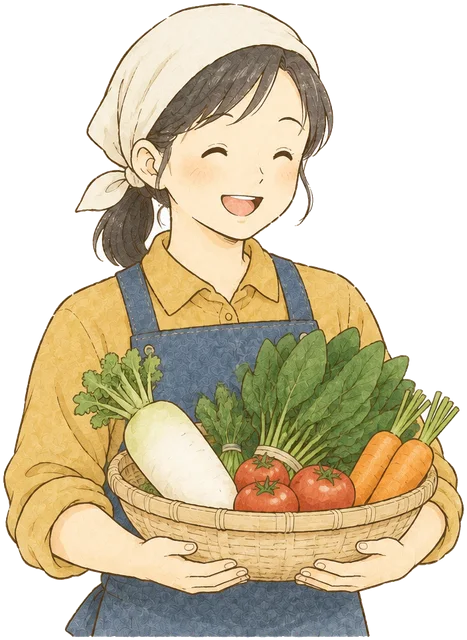
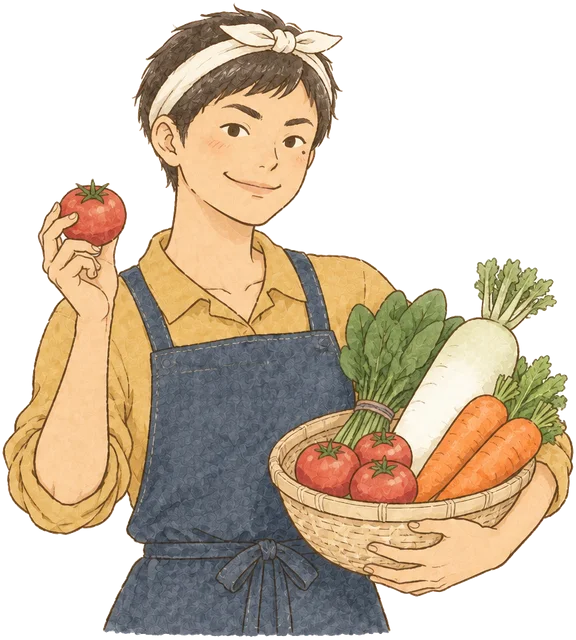
SNS の人物画 8 人を、個性的な顔つき・表情に描き直す
1 回目の 8 人は顔が似ていて（丸い顔・同じ目と口）、表情もほぼ同じ笑顔だったため、
1 人ずつ顔の形・目・眉・鼻と口・特徴（八重歯・そばかす・ほくろ・えくぼ）・髪型・肌の色と表情を変えて描き直した。
レジ担当の髪は年上に見えないよう茶色に、店主の事務は表紙で小さくならないよう縦長の構図にした。

diff --git a/CLAUDE.md b/CLAUDE.md
@@ -125,7 +125,7 @@ npm run og      # OGP 画像（public/og-image.png）を作り直す
 - 画像は `public/images/mascots/rejimaru.webp`・`posuta.webp`（記事の中では小さく丸く表示される）。元の絵は Canva の MAHboScnROc（レジまる）・MAHboaheGVI（ポスタ）。2026-11-22 に描き直し：茶色の線と水彩、手は指のない手袋（ミトン）、ポスタはまっすぐ立つ。読者役 5 人のアンケートで紫・機械的な線・分かりにくい手を直した
 - 紹介記事は `mascot-introduction`（2026年10月25日 7:00 公開予定）
 - **X・Instagram の記事の告知文は、マスコットのセリフにしない**（2026-11-28 に変更。初めて見た人には、誰が話しているのか・何のアカウントなのかが分からなかったため。表示も「役立つ一言」の型より少なかった）。1行目で読む人の困りごと・得することが分かるふつうの文にし、記事の要点を1〜2個（Instagram は3〜4個）本文に書いて、投稿だけでも役に立つようにする。「〜について記事にまとめました」のような紹介の言い方にしない。やさしい「です・ます」か短い文で、語尾の「〜まる」・タメ口は使わない
-  - **SNS の画像には、マスコットの代わりに記事の業種に合う人物画を1人出す**（2026-11-28 に運営者の指示で変更）。絵は「mise & ひとふでノート」の POP 用の人物画（Canva の AI で作成。使ってよいことは運営者が Canva で確認済み）を `public/images/sns-people/<業種>-<表情>.webp` に縮小してコピーしたもの。顔や形は加工しない（大きさを変えるだけ）。業種は `scripts/daily-sns.mjs` の `PERSON_RULES`（カテゴリ・タグ・slug・タイトルの言葉で決める）と `PERSON_BY_SLUG`（例外）で決め、業種の言葉がない記事はカテゴリで決め、POS・周辺機器（`devices`）はレジ担当（`register`）、レジ締め・Excel・補助金・売上（`management`）は店主の事務（`office`）。どれでもなければカフェの人。表情はふつう笑顔（smile）、トラブル対応・防犯の記事は考える顔（think）。**年配に見える人は使わない**（若い人の絵にする。school・dining・florist・life・relax・bakery は1人目が年配に見えたので、若い人の別の絵に替えた）。slug で決める例外（`PERSON_BY_SLUG`）：`gym-pos`→ジムのトレーナー（`gym`）・`pet-shop-pos`→ペットショップの店員（`pet`）・`farm-stand-pos`→直売所の人（`farm`）・`golf-range-pos`→ゴルフ練習場の受付（`golf`）・`recycle-shop-pos` と `simple-shop-repair-buyback`→リサイクル・買取の店員（`recycle`）・`dental-clinic-pos`→歯科医（`dental`、POS 用の `p-dental1`）。2026-11-28 に register（笑顔と困った顔の 2 枚）・office・gym・pet・farm・golf・recycle を Canva で新しく描いた（Canva のデザイン DAHb6PjhcPM の 32 ページ、記録は C:\dev\_pop-people\queue-items.md）。出す場所：X の画像の左下・Instagram の表紙の右下・最後の画像・リールの最後のコマ
+  - **SNS の画像には、マスコットの代わりに記事の業種に合う人物画を1人出す**（2026-11-28 に運営者の指示で変更）。絵は「mise & ひとふでノート」の POP 用の人物画（Canva の AI で作成。使ってよいことは運営者が Canva で確認済み）を `public/images/sns-people/<業種>-<表情>.webp` に縮小してコピーしたもの。顔や形は加工しない（大きさを変えるだけ）。業種は `scripts/daily-sns.mjs` の `PERSON_RULES`（カテゴリ・タグ・slug・タイトルの言葉で決める）と `PERSON_BY_SLUG`（例外）で決め、業種の言葉がない記事はカテゴリで決め、POS・周辺機器（`devices`）はレジ担当（`register`）、レジ締め・Excel・補助金・売上（`management`）は店主の事務（`office`）。どれでもなければカフェの人。表情はふつう笑顔（smile）、トラブル対応・防犯の記事は考える顔（think）。**年配に見える人は使わない**（若い人の絵にする。school・dining・florist・life・relax・bakery は1人目が年配に見えたので、若い人の別の絵に替えた）。slug で決める例外（`PERSON_BY_SLUG`）：`gym-pos`→ジムのトレーナー（`gym`）・`pet-shop-pos`→ペットショップの店員（`pet`）・`farm-stand-pos`→直売所の人（`farm`）・`golf-range-pos`→ゴルフ練習場の受付（`golf`）・`recycle-shop-pos` と `simple-shop-repair-buyback`→リサイクル・買取の店員（`recycle`）・`dental-clinic-pos`→歯科医（`dental`、POS 用の `p-dental1`）。2026-11-28 に register（笑顔と困った顔の 2 枚）・office・gym・pet・farm・golf・recycle を Canva で新しく描いた同じ日に運営者の「個性的な顔つき・表情に」の指示で、8 人とも顔の形・目・眉・髪型・肌の色・表情を 1 人ずつ変えて描き直した（Canva のデザイン DAHb6PjhcPM の 33 ページ。1 回目は 32 ページ。記録は C:\dev\_pop-people\queue-items.md）。出す場所：X の画像の左下・Instagram の表紙の右下・最後の画像・リールの最後のコマ
   - 「画像だけで役に立つ」カルーセル（デスクトップの `SNS投稿\_tools\`）も同じ人物画を使う。2026-11-28 に 11/28〜12/16 の投稿を新しい文と人物画で作り直した（元のファイルは作業した Claude の一時フォルダーに控えあり）
   - ブログの記事の中のマスコット（小さな丸い絵）と `mascot-introduction` の記事は、今のところ変えていない
 - **X・Instagram の投稿文には、絵文字や顔文字を入れてよい**（2026-11-06 に運営者が許可）。話の内容に合うものを、1行目の最後に1個まで。**おじさん構文に気をつける**：絵文字や記号を重ねない、語尾をカタカナにしない、馴れ馴れしくしない。😅😘❣、ハート、！の連続は使わない。法律・資格・料金の注意が中心の記事には付けない。画像の中の文字には入れない（文字化けするおそれがあるため）
